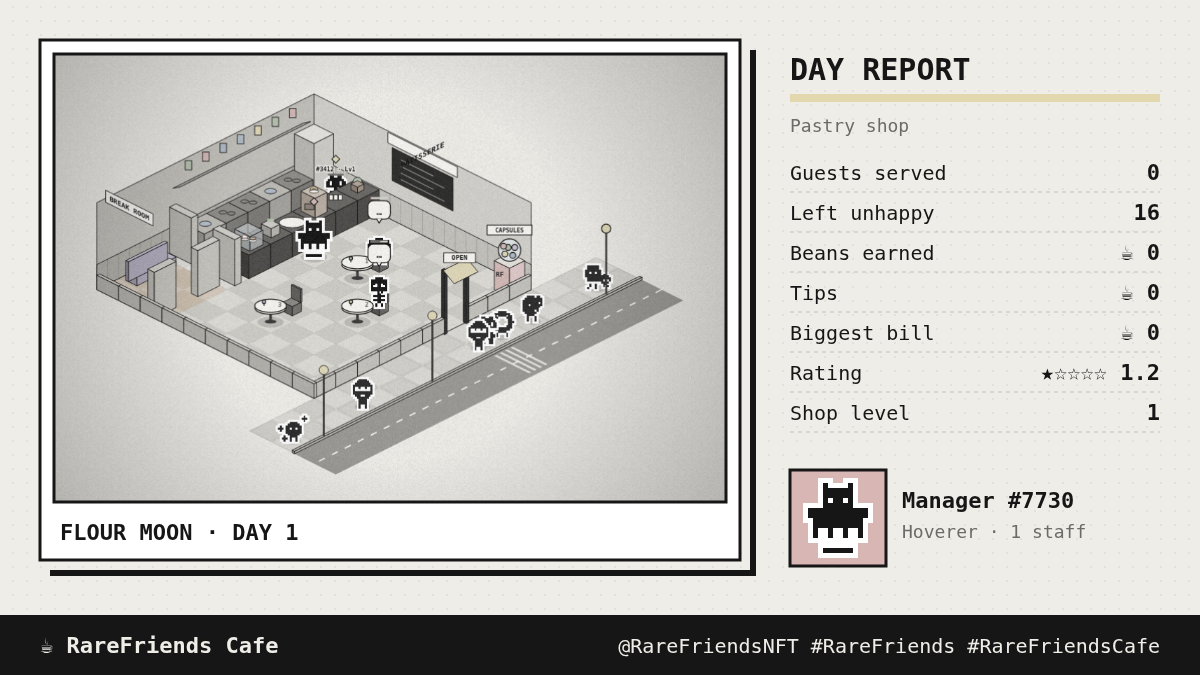
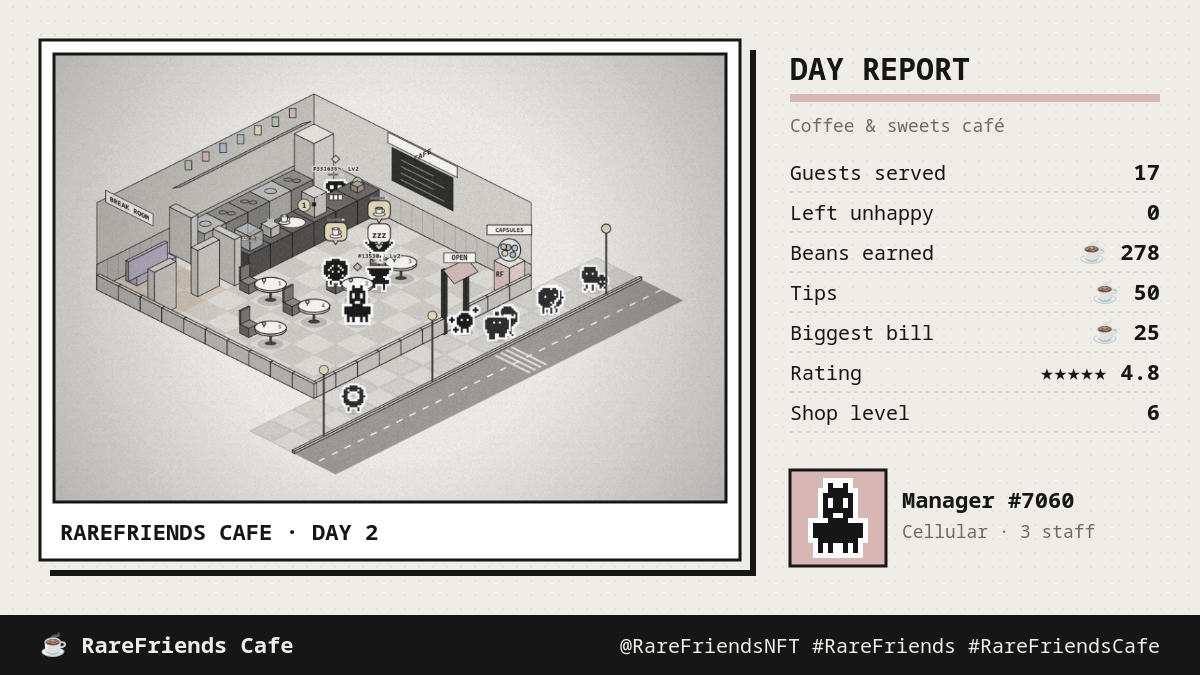
README: real-wallet playtest done, day card from real play

diff --git a/README.md b/README.md
@@ -113,6 +113,10 @@ npm run test:browser   # SDK mock-wallet browser runs:
 
 The mock wallet exists only in tests. `dev` and public builds always use the real ownership gate.
 
+**Real-wallet playtest:** the builder has playtested extensively with a real wallet on Robinhood mainnet: owned Friends
+hired as staff and levelling up, closing and reloading to pick the shop back up, and the day card (the one above
+is from that play).
+
 ## How the host extends the SDK
 
 The runtime page is the SDK's own **`GameHost`**: wallet connection, owned-Friend picker, fresh
@@ -134,7 +138,6 @@ Under the plain SDK CLI (`npx friendsdk dev` / `test`), the game runs without th
 - Guest Friends are procedural art in the Rare Friends style, not specific tokens. The roster needs the RPC to return the wallet's transfer history; guest applicants work regardless.
 - Audio is synthesized in the browser and starts on your first tap. On iPhones before iOS 17, silent mode may keep it quiet.
 - Wallet support is the SDK's (injected / EIP-6963; no WalletConnect).
-- The browser tests use the SDK's mocked wallet. A real-wallet playtest on Robinhood mainnet is still needed; the build environment can't reach mainnet.
 
 ## Credits
 
